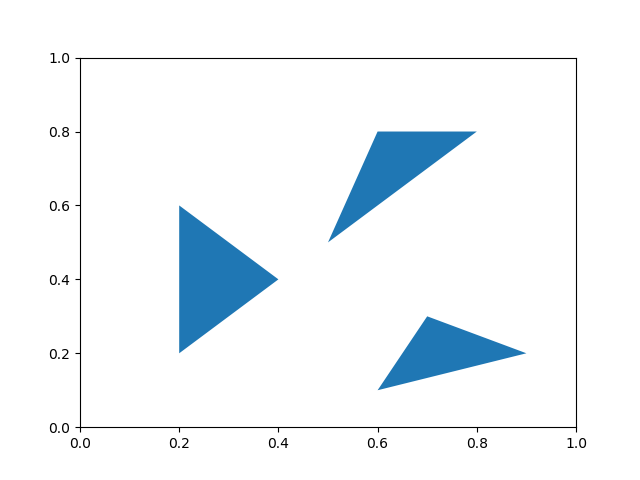
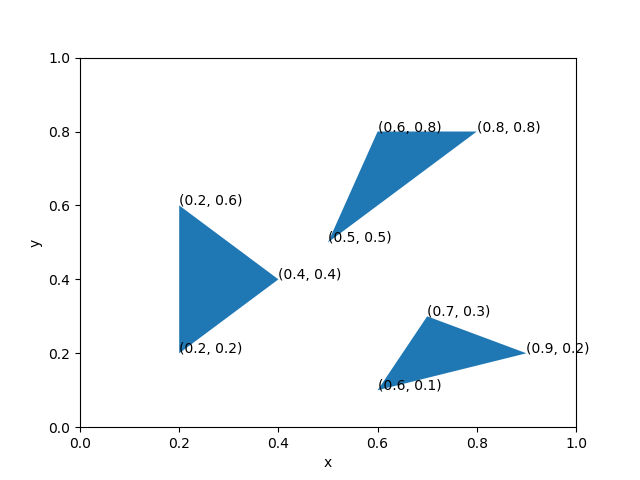
Make image transparent

diff --git a/scripts/shapes.py b/scripts/shapes.py
@@ -7,6 +7,14 @@ def plot_triangle(points, ax=None):
     patch = plt.Polygon(points)
     ax.add_patch(patch)
 
+    for pt in points:
+        x, y = pt
+        ax.text(x, y, '({}, {})'.format(x, y))
+
+    ax.set_xlabel('x')
+    ax.set_ylabel('y')
+
+
 if __name__ == "__main__":
 
     plot_triangle([
@@ -27,4 +35,4 @@ if __name__ == "__main__":
         (0.9, 0.2)
     ])
 
-    plt.savefig('../images/triangle.png')
+    plt.savefig('../images/triangle.png', transparent=True)
